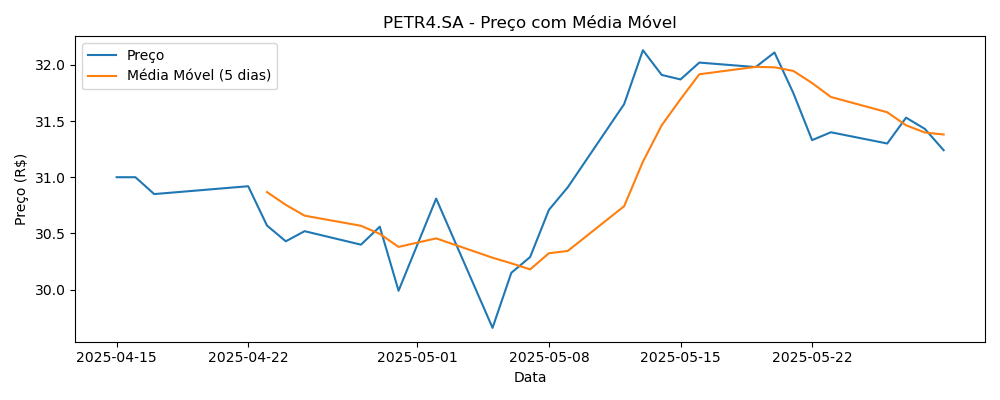
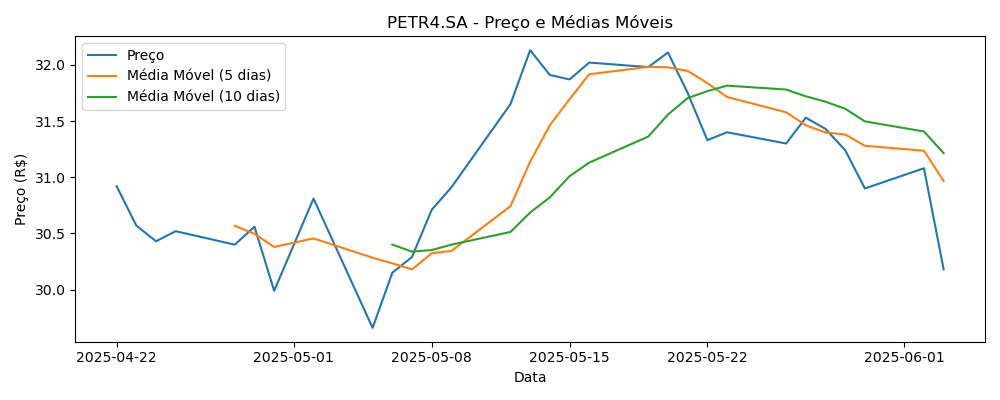
Adicionando comparacao e novas estatísticas

diff --git a/static/js/chart_config.js b/static/js/chart_config.js
@@ -21,11 +21,44 @@ const grafico = new Chart(ctx, {
     }
 });
 
+const ctxComparacao = document.getElementById('graficoComparacao').getContext('2d');
+
+const graficoComparacao = new Chart(ctxComparacao, {
+    type: 'line',
+    data: {
+        labels: [],
+        datasets: [{
+            label: 'Preço de Fechamento (Comparação)',
+            data: [],
+            borderColor: 'blue',
+            borderWidth: 2,
+            fill: false
+        }]
+    },
+    options: {
+        responsive: true,
+        scales: {
+            x: { display: true },
+            y: { display: true }
+        }
+    }
+});
+
+
 function buscarAcao() {
     const simbolo = document.getElementById('inputSimbolo').value || 'PETR4.SA';
     atualizarGrafico(simbolo);
     atualizarIndicadores(simbolo);
 }
+
+function buscarComparacao() {
+  const simbolo = document.getElementById('inputComparar').value;
+  if (!simbolo) return;
+
+  atualizarGraficoComparacao(simbolo);
+  atualizarIndicadoresComparacao(simbolo);
+}
+
 
 function atualizarGrafico(simbolo) {
     fetch(`/dados?simbolo=${simbolo}`)
@@ -40,6 +73,21 @@ function atualizarGrafico(simbolo) {
             grafico.update();
         });
 }
+
+function atualizarGraficoComparacao(simbolo) {
+  fetch(`/dados?simbolo=${simbolo}`)
+      .then(resp => resp.json())
+      .then(dados => {
+          if (dados.erro) {
+              alert(dados.erro);
+              return;
+          }
+          graficoComparacao.data.labels = dados.map(p => p.data);
+          graficoComparacao.data.datasets[0].data = dados.map(p => p.preco);
+          graficoComparacao.update();
+      });
+}
+
 
 function atualizarIndicadores(simbolo) {
     fetch(`/analise?simbolo=${simbolo}`)
@@ -105,6 +153,61 @@ function atualizarIndicadores(simbolo) {
                     </div>
                   </div>
                 </div>
+
+                <!-- ➕ Novos cards -->
+                <div class="col-md-4">
+                  <div class="card border-secondary">
+                    <div class="card-body">
+                      <h5 class="card-title">Retorno Total</h5>
+                      <p class="card-text fw-bold">${dados.retorno_total}%</p>
+                    </div>
+                  </div>
+                </div>
+
+                <div class="col-md-4">
+                  <div class="card border-dark">
+                    <div class="card-body">
+                      <h5 class="card-title">Preço Inicial</h5>
+                      <p class="card-text">${dados.preco_inicio}</p>
+                    </div>
+                  </div>
+                </div>
+
+                <div class="col-md-4">
+                  <div class="card border-dark">
+                    <div class="card-body">
+                      <h5 class="card-title">Preço Final</h5>
+                      <p class="card-text">${dados.preco_fim}</p>
+                    </div>
+                  </div>
+                </div>
+
+                <div class="col-md-4">
+                  <div class="card border-success">
+                    <div class="card-body">
+                      <h5 class="card-title">Dias de Alta</h5>
+                      <p class="card-text text-success">${dados.dias_alta}</p>
+                    </div>
+                  </div>
+                </div>
+
+                <div class="col-md-4">
+                  <div class="card border-danger">
+                    <div class="card-body">
+                      <h5 class="card-title">Dias de Queda</h5>
+                      <p class="card-text text-danger">${dados.dias_baixa}</p>
+                    </div>
+                  </div>
+                </div>
+
+                <div class="col-md-4">
+                  <div class="card border-warning">
+                    <div class="card-body">
+                      <h5 class="card-title">Maior Retorno Diário</h5>
+                      <p class="card-text">${dados.maior_retorno}% em ${dados.data_maior_retorno}</p>
+                    </div>
+                  </div>
+                </div>
             `;
 
             // Atualiza imagem gerada
@@ -112,8 +215,89 @@ function atualizarIndicadores(simbolo) {
         });
 }
 
+function atualizarIndicadoresComparacao(simbolo) {
+  fetch(`/analise?simbolo=${simbolo}`)
+      .then(resp => resp.json())
+      .then(dados => {
+          if (dados.erro) {
+              alert(dados.erro);
+              return;
+          }
+
+          document.getElementById('tituloComparacao').style.display = 'block';
+          document.getElementById('tituloComparacao').innerText = `Comparando com: ${simbolo}`;
+
+          const container = document.getElementById("indicadoresComparacao");
+          container.innerHTML = `
+              <div class="col-md-4"><div class="card border-success"><div class="card-body">
+                  <h5 class="card-title">Retorno Acumulado</h5>
+                  <p class="card-text text-success fw-bold">${dados.retorno_acumulado}%</p>
+              </div></div></div>
+
+              <div class="col-md-4"><div class="card border-danger"><div class="card-body">
+                  <h5 class="card-title">Volatilidade Anual</h5>
+                  <p class="card-text text-danger fw-bold">${dados.volatilidade_anual}%</p>
+              </div></div></div>
+
+              <div class="col-md-4"><div class="card border-primary"><div class="card-body">
+                  <h5 class="card-title">Sharpe Ratio</h5>
+                  <p class="card-text text-primary fw-bold">${dados.sharpe_ratio}</p>
+              </div></div></div>
+
+              <div class="col-md-4"><div class="card border-dark"><div class="card-body">
+                  <h5 class="card-title">Preço Médio</h5>
+                  <p class="card-text">${dados.preco_medio}</p>
+              </div></div></div>
+
+              <div class="col-md-4"><div class="card border-dark"><div class="card-body">
+                  <h5 class="card-title">Máximo</h5>
+                  <p class="card-text">${dados.preco_max}</p>
+              </div></div></div>
+
+              <div class="col-md-4"><div class="card border-dark"><div class="card-body">
+                  <h5 class="card-title">Mínimo</h5>
+                  <p class="card-text">${dados.preco_min}</p>
+              </div></div></div>
+
+              <div class="col-md-4"><div class="card border-secondary"><div class="card-body">
+                  <h5 class="card-title">Retorno Total</h5>
+                  <p class="card-text fw-bold">${dados.retorno_total}%</p>
+              </div></div></div>
+
+              <div class="col-md-4"><div class="card border-dark"><div class="card-body">
+                  <h5 class="card-title">Preço Inicial</h5>
+                  <p class="card-text">${dados.preco_inicio}</p>
+              </div></div></div>
+
+              <div class="col-md-4"><div class="card border-dark"><div class="card-body">
+                  <h5 class="card-title">Preço Final</h5>
+                  <p class="card-text">${dados.preco_fim}</p>
+              </div></div></div>
+
+              <div class="col-md-4"><div class="card border-success"><div class="card-body">
+                  <h5 class="card-title">Dias de Alta</h5>
+                  <p class="card-text text-success">${dados.dias_alta}</p>
+              </div></div></div>
+
+              <div class="col-md-4"><div class="card border-danger"><div class="card-body">
+                  <h5 class="card-title">Dias de Queda</h5>
+                  <p class="card-text text-danger">${dados.dias_baixa}</p>
+              </div></div></div>
+
+              <div class="col-md-4"><div class="card border-warning"><div class="card-body">
+                  <h5 class="card-title">Maior Retorno Diário</h5>
+                  <p class="card-text">${dados.maior_retorno}% em ${dados.data_maior_retorno}</p>
+              </div></div></div>
+          `;
+
+          document.getElementById('graficoMatplotlibComparacao').src = dados.grafico + '?v=' + new Date().getTime();
+      });
+}
+
+
 // Carga inicial com PETR4.SA
 buscarAcao();
+
 
 
 

diff --git a/templates/index.html b/templates/index.html
@@ -10,31 +10,57 @@
   <div class="container">
     <h1 class="mb-4 text-center">📊 Dashboard de Ações (Alpha Vantage)</h1>
 
-    <!-- Formulário de busca -->
+    <!-- Formulário de busca principal -->
     <form class="d-flex justify-content-center mb-4" onsubmit="event.preventDefault(); buscarAcao()">
       <input id="inputSimbolo" class="form-control me-2" style="max-width: 300px;" type="text" placeholder="Ex: PETR4.SA ou AAPL" />
       <button class="btn btn-primary" type="submit">Buscar</button>
     </form>
 
-    <!-- Indicadores -->
+    <!-- Indicadores da primeira ação -->
     <div id="indicadores" class="row g-3 mb-4"></div>
 
-    <!-- Gráfico Chart.js -->
+    <!-- Gráfico Chart.js da primeira ação -->
     <div class="card mb-4">
       <div class="card-body">
         <canvas id="grafico" height="100"></canvas>
       </div>
     </div>
 
-    <!-- Gráfico gerado pelo matplotlib -->
-    <div class="text-center">
+    <!-- Gráfico matplotlib da primeira ação -->
+    <div class="text-center mb-5">
       <img id="graficoMatplotlib" src="" class="img-fluid border shadow" alt="Gráfico gerado" style="max-width: 100%;">
+    </div>
+
+    <hr class="my-5">
+
+    <!-- Formulário de comparação -->
+    <h2 class="mb-3 text-center">📌 Comparar com outra ação</h2>
+    <form class="d-flex justify-content-center mb-4" onsubmit="event.preventDefault(); buscarComparacao()">
+      <input id="inputComparar" class="form-control me-2" style="max-width: 300px;" type="text" placeholder="Ex: AAPL, VALE3.SA" />
+      <button class="btn btn-outline-secondary" type="submit">Comparar</button>
+    </form>
+
+    <!-- Indicadores da ação comparada -->
+    <h4 id="tituloComparacao" style="display:none;" class="text-center mt-4"></h4>
+    <div id="indicadoresComparacao" class="row g-3 mb-4"></div>
+
+    <!-- Gráfico Chart.js da comparação -->
+    <div class="card mb-4">
+      <div class="card-body">
+        <canvas id="graficoComparacao" height="100"></canvas>
+      </div>
+    </div>
+
+    <!-- Gráfico matplotlib da comparação -->
+    <div class="text-center">
+      <img id="graficoMatplotlibComparacao" src="" class="img-fluid border shadow" style="max-width: 100%;">
     </div>
   </div>
 
   <script src="/static/js/chart_config.js"></script>
 </body>
 </html>
+
 
 
 

diff --git a/services/analise.py b/services/analise.py
@@ -11,9 +11,7 @@ def analisar_acao(dados_json, simbolo):
 
     # Verificações defensivas
     if df.empty or 'preco' not in df.columns:
-        return {
-            "erro": "Dados insuficientes para análise."
-        }
+        return {"erro": "Dados insuficientes para análise."}
 
     # Conversão e ordenação por data
     df['data'] = pd.to_datetime(df['data'])
@@ -23,14 +21,12 @@ def analisar_acao(dados_json, simbolo):
     # Cálculos principais
     df['retorno_diario'] = df['preco'].pct_change()
 
-    # Verifica se foi possível calcular o retorno
     if df['retorno_diario'].isnull().all():
-        return {
-            "erro": "Não foi possível calcular o retorno diário."
-        }
+        return {"erro": "Não foi possível calcular o retorno diário."}
 
     df['retorno_acumulado'] = (1 + df['retorno_diario']).cumprod() - 1
     df['media_movel_5'] = df['preco'].rolling(window=5).mean()
+    df['media_movel_10'] = df['preco'].rolling(window=10).mean()
 
     # Indicadores estatísticos
     media_retorno = df['retorno_diario'].mean()
@@ -42,6 +38,15 @@ def analisar_acao(dados_json, simbolo):
     preco_min = df['preco'].min()
     preco_max = df['preco'].max()
 
+    # ➕ Novas análises simples
+    retorno_total = (df['preco'].iloc[-1] / df['preco'].iloc[0] - 1) * 100
+    preco_inicio = df['preco'].iloc[0]
+    preco_fim = df['preco'].iloc[-1]
+    dias_alta = int((df['retorno_diario'] > 0).sum())
+    dias_baixa = int((df['retorno_diario'] < 0).sum())
+    maior_retorno = df['retorno_diario'].max() * 100
+    data_maior_retorno = df['retorno_diario'].idxmax().strftime('%d/%m/%Y')
+
     # Criar pasta para salvar os gráficos
     os.makedirs('static/graficos', exist_ok=True)
     caminho_img = f'static/graficos/media_movel_{simbolo}.png'
@@ -50,7 +55,8 @@ def analisar_acao(dados_json, simbolo):
     plt.figure(figsize=(10, 4))
     plt.plot(df.index, df['preco'], label='Preço')
     plt.plot(df.index, df['media_movel_5'], label='Média Móvel (5 dias)')
-    plt.title(f'{simbolo} - Preço com Média Móvel')
+    plt.plot(df.index, df['media_movel_10'], label='Média Móvel (10 dias)')
+    plt.title(f'{simbolo} - Preço e Médias Móveis')
     plt.xlabel('Data')
     plt.ylabel('Preço (R$)')
     plt.legend()
@@ -58,7 +64,7 @@ def analisar_acao(dados_json, simbolo):
     plt.savefig(caminho_img)
     plt.close()
 
-    # Resumo a ser retornado
+    # Retorno final
     return {
         "simbolo": simbolo,
         "media_movel_5_hoje": round(df['media_movel_5'].iloc[-1], 2) if not df['media_movel_5'].isnull().all() else None,
@@ -69,8 +75,16 @@ def analisar_acao(dados_json, simbolo):
         "preco_medio": round(preco_medio, 2),
         "preco_min": round(preco_min, 2),
         "preco_max": round(preco_max, 2),
-        "grafico": "/" + caminho_img
+        "grafico": "/" + caminho_img,
+        "retorno_total": round(retorno_total, 2),
+        "preco_inicio": round(preco_inicio, 2),
+        "preco_fim": round(preco_fim, 2),
+        "dias_alta": dias_alta,
+        "dias_baixa": dias_baixa,
+        "maior_retorno": round(maior_retorno, 2),
+        "data_maior_retorno": data_maior_retorno
     }
+
 
 
 
